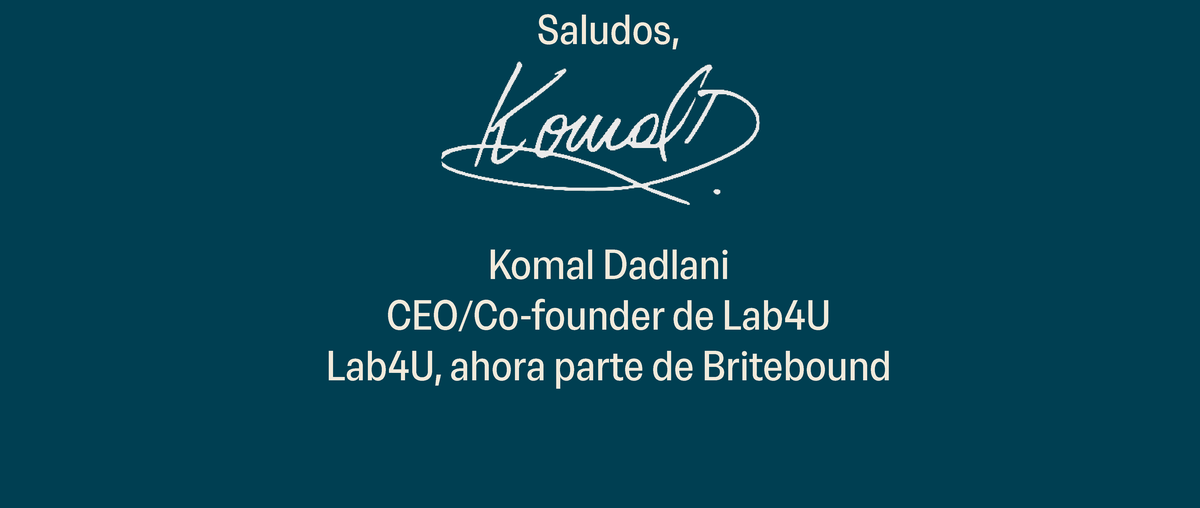
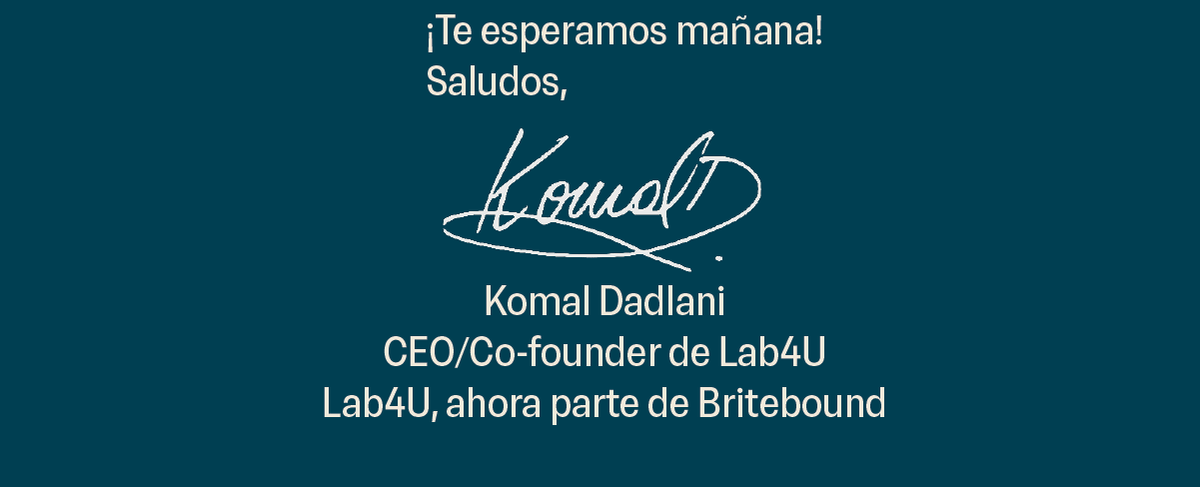
Actualiza grafico al recordatorio: 'Nos vemos manana'
- Nuevo titulo y textos de recordatorio (vispera del evento)
- Columnas del CTA ahora simetricas: 26.250 / 47.500 / 26.250
- Banda del boton de 205 px -> 64 px de area tocable en movil
- Tarjeta Open Graph regenerada con el titulo nuevo
- Los assets inv-*.png de la v1 (correos ya enviados) quedan intactos

diff --git a/index.html b/index.html
@@ -3,7 +3,7 @@
 <head>
 <meta charset="utf-8">
 <meta name="viewport" content="width=device-width, initial-scale=1">
-<title>Invitación Lab4U: Britebound en Chile</title>
+<title>¡Nos vemos mañana! — Britebound + Lab4U</title>
 <meta name="description" content="Martes 18 de agosto de 2026, 16:00 a 19:30 hrs. Renaissance Santiago Hotel, Av. Kennedy 4700, Vitacura. Confirma tu asistencia.">
 <meta name="theme-color" content="#003F52">
 
@@ -12,14 +12,14 @@
 <meta property="og:site_name" content="Lab4U">
 <meta property="og:locale" content="es_CL">
 <meta property="og:url" content="https://oriondev-cl.github.io/lab4u-invitacion-assets/">
-<meta property="og:title" content="Invitación Lab4U: Britebound en Chile">
+<meta property="og:title" content="¡Nos vemos mañana! — Britebound + Lab4U">
 <meta property="og:description" content="Martes 18 de agosto de 2026, 16:00 a 19:30 hrs. Renaissance Santiago Hotel, Av. Kennedy 4700, Vitacura. Confirma tu asistencia.">
 <meta property="og:image" content="https://oriondev-cl.github.io/lab4u-invitacion-assets/og-invitacion.png">
 <meta property="og:image:width" content="1200">
 <meta property="og:image:height" content="630">
-<meta property="og:image:alt" content="Invitación Lab4U: Britebound en Chile. Martes 18 de agosto de 2026.">
+<meta property="og:image:alt" content="¡Nos vemos mañana! Britebound y Lab4U. Martes 18 de agosto de 2026.">
 <meta name="twitter:card" content="summary_large_image">
-<meta name="twitter:title" content="Invitación Lab4U: Britebound en Chile">
+<meta name="twitter:title" content="¡Nos vemos mañana! — Britebound + Lab4U">
 <meta name="twitter:description" content="Martes 18 de agosto de 2026, 16:00 a 19:30 hrs. Renaissance Santiago Hotel, Av. Kennedy 4700, Vitacura.">
 <meta name="twitter:image" content="https://oriondev-cl.github.io/lab4u-invitacion-assets/og-invitacion.png">
 
@@ -39,9 +39,9 @@
   /* Fila del boton: mismos anchos que el correo */
   .cta{display:flex;width:100%;line-height:0;font-size:0;}
   .cta > *{display:block;}
-  .cta .izq{width:26.333%;}
+  .cta .izq{width:26.250%;}
   .cta .boton{width:47.500%;}
-  .cta .der{width:26.167%;}
+  .cta .der{width:26.250%;}
   .cta .boton img{transition:opacity .15s ease;}
   .cta .boton:hover img,.cta .boton:focus-visible img{opacity:.88;}
   .cta .boton:focus-visible{outline:3px solid var(--crema);outline-offset:-3px;}
@@ -69,7 +69,7 @@
 
   <main class="hoja">
     <img src="inv2-top.png"
-         alt="Invitación Lab4U: Britebound en Chile. Celebra con nosotros. Para celebrar la adquisición de Lab4U por parte de Britebound, quisiéramos extenderles la invitación a un evento con la Comunidad Lab4U. Nos acompañará Bill Shaw, EVP de Britebound. Hablaremos sobre impacto, IA, educación STEM y mucho más. Fecha: martes 18 de agosto de 2026. Hora: 16:00 a 19:30 hrs. Lugar: Renaissance Santiago Hotel, Av. Kennedy 4700, Vitacura, Terraza Olas, piso menos 1. Estacionamiento: Kennedy 4700, Vitacura, costado edificio Patio. Si ya hiciste RSVP en este link, gracias, está confirmada tu participación; si no, responde este correo o confirma aquí:">
+         alt="¡Nos vemos mañana! Britebound y Lab4U. Celebra con nosotros. Mañana celebraremos junto a nuestra Comunidad Lab4U la adquisición de Lab4U por parte de Britebound. Nos acompañará Bill Shaw, EVP de Britebound, en un encuentro donde hablaremos sobre impacto, IA, educación STEM y mucho más. Fecha: martes 18 de agosto de 2026. Hora: 16:00 a 19:30 hrs. Lugar: Renaissance Santiago Hotel, Av. Kennedy 4700, Vitacura, Terraza Olas, piso menos 1. Estacionamiento: Kennedy 4700, Vitacura, costado edificio Patio. Si ya hiciste RSVP, ¡gracias! Tu participación está confirmada. Si aún no has confirmado, responde este correo o hazlo aquí:">
 
     <div class="cta">
       <img class="izq" src="inv2-left.png" alt="">
@@ -80,12 +80,12 @@
     </div>
 
     <img src="inv2-bottom.png"
-         alt="Saludos, Komal Dadlani, CEO y cofundadora de Lab4U. Lab4U, ahora parte de Britebound.">
+         alt="¡Te esperamos mañana! Saludos, Komal Dadlani, CEO y cofundadora de Lab4U. Lab4U, ahora parte de Britebound.">
   </main>
 
   <nav class="extras">
     <a href="https://www.google.com/maps/search/?api=1&amp;query=Renaissance+Santiago+Hotel%2C+Av.+Kennedy+4700%2C+Vitacura" target="_blank" rel="noopener">Cómo llegar</a>
-    <a href="https://calendar.google.com/calendar/render?action=TEMPLATE&amp;text=Invitaci%C3%B3n%20Lab4U%3A%20Britebound%20en%20Chile&amp;dates=20260818T200000Z%2F20260818T233000Z&amp;details=Evento%20con%20la%20Comunidad%20Lab4U%20para%20celebrar%20la%20adquisici%C3%B3n%20de%20Lab4U%20por%20parte%20de%20Britebound.&amp;location=Renaissance%20Santiago%20Hotel%2C%20Av.%20Kennedy%204700%2C%20Vitacura.%20Terraza%20Olas%2C%20piso%20-1." target="_blank" rel="noopener">Agregar al calendario</a>
+    <a href="https://calendar.google.com/calendar/render?action=TEMPLATE&amp;text=Britebound%20%2B%20Lab4U%20%E2%80%94%20Celebra%20con%20Nosotros&amp;dates=20260818T200000Z%2F20260818T233000Z&amp;details=Evento%20con%20la%20Comunidad%20Lab4U%20para%20celebrar%20la%20adquisici%C3%B3n%20de%20Lab4U%20por%20parte%20de%20Britebound.&amp;location=Renaissance%20Santiago%20Hotel%2C%20Av.%20Kennedy%204700%2C%20Vitacura.%20Terraza%20Olas%2C%20piso%20-1." target="_blank" rel="noopener">Agregar al calendario</a>
   </nav>
 
   <p class="pie">
